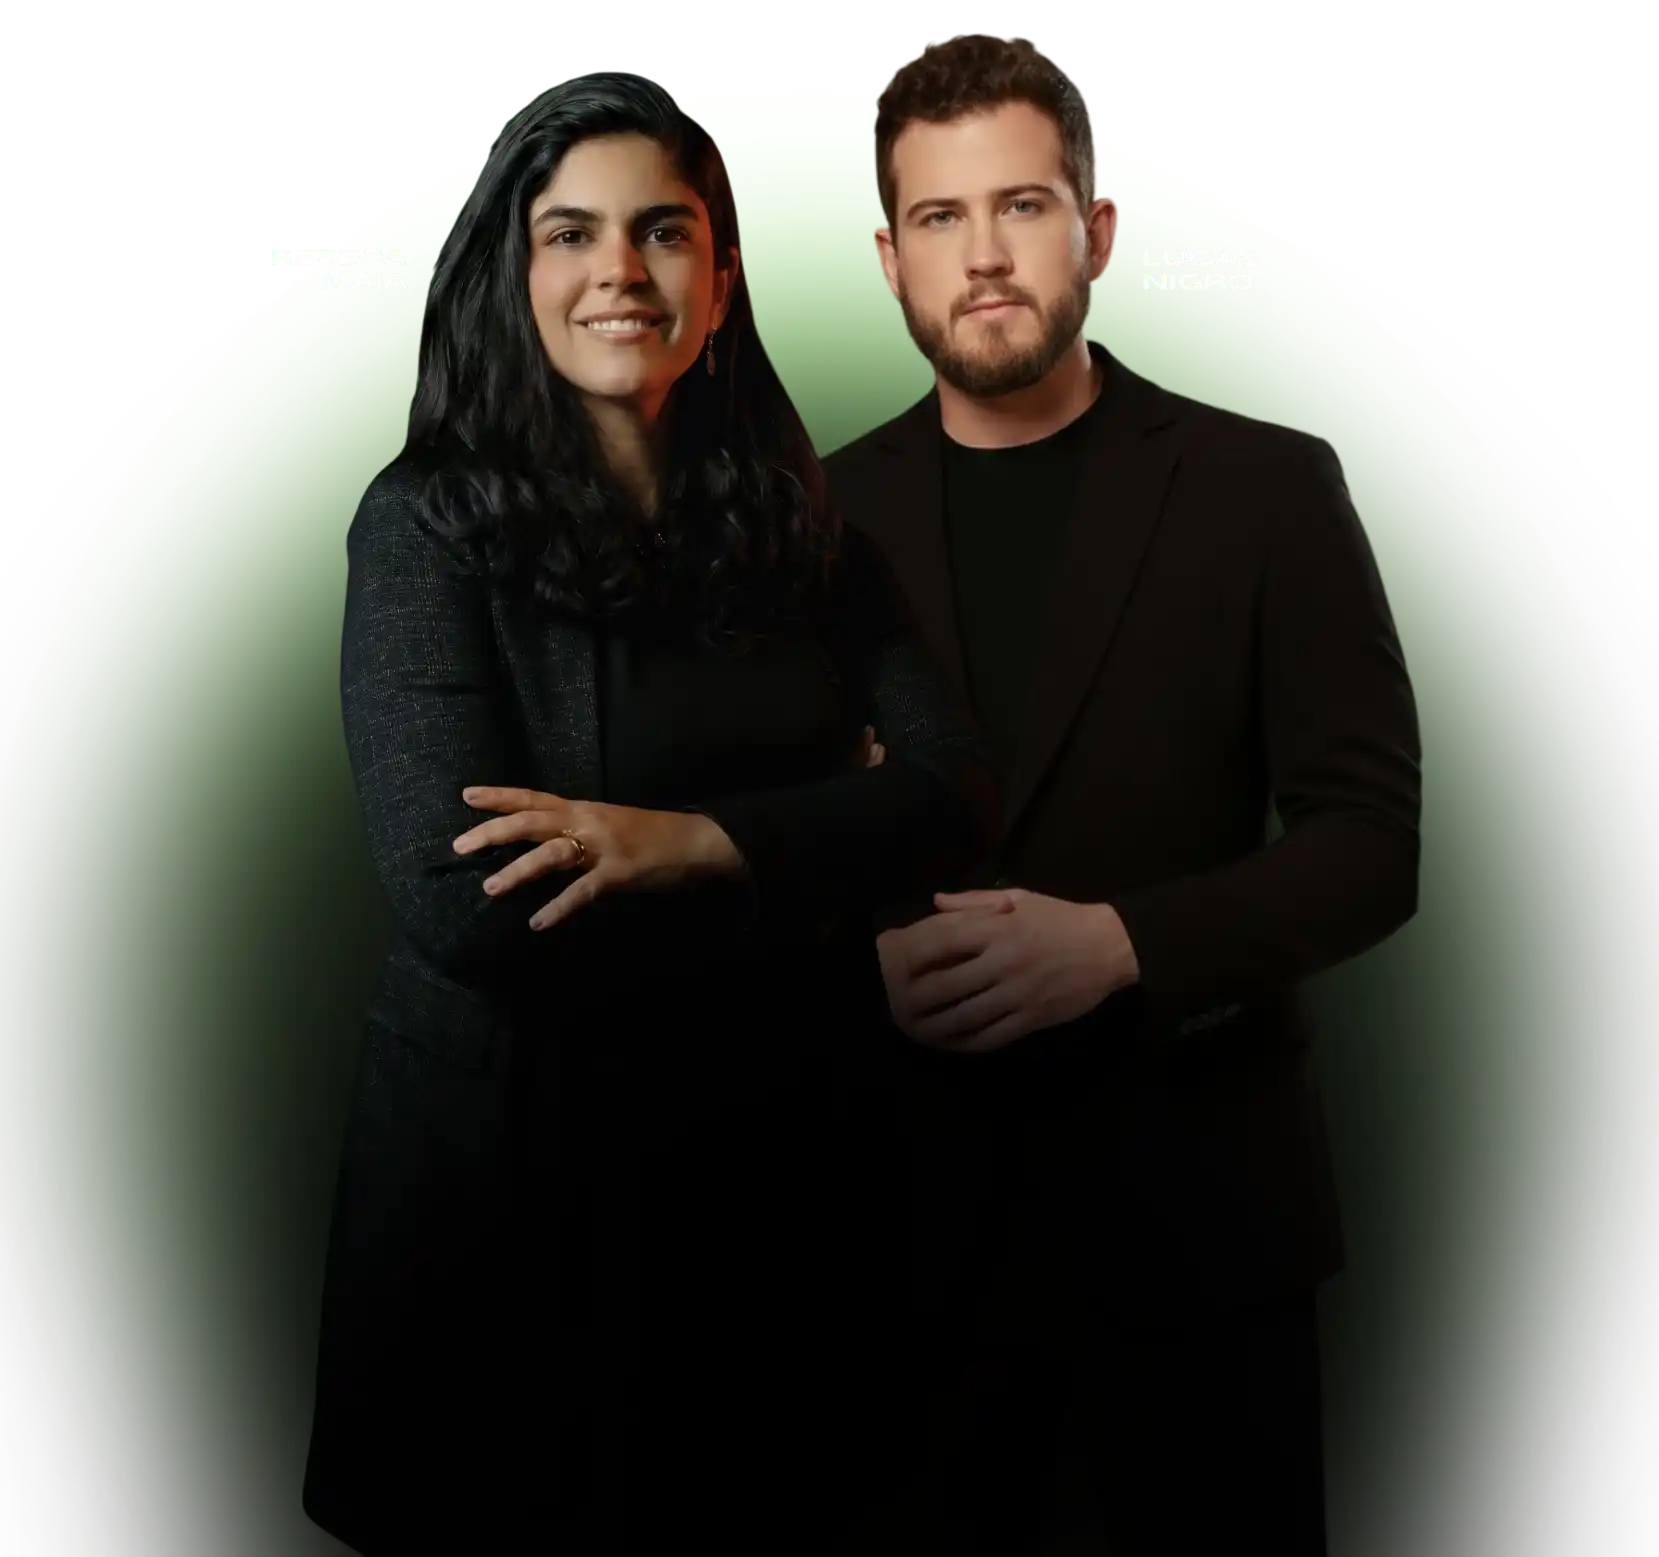
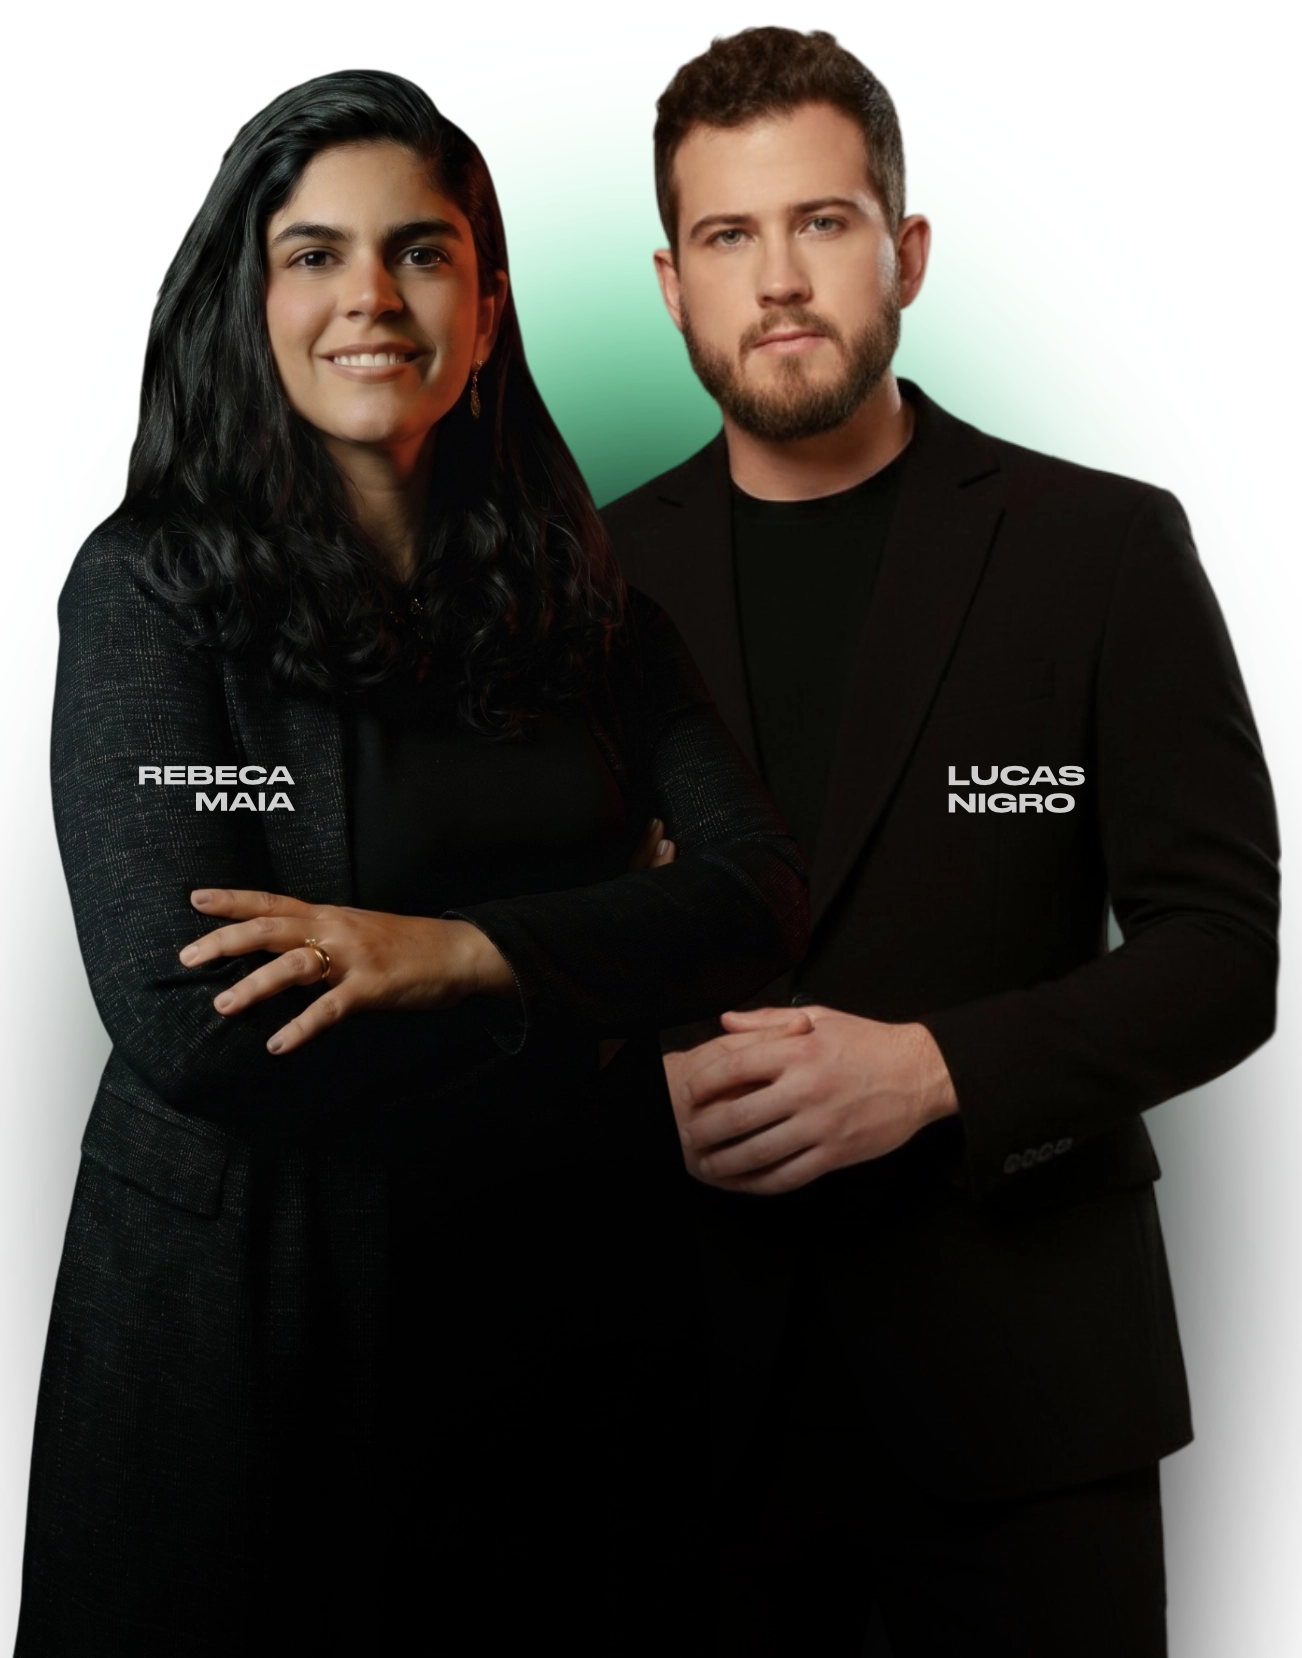
feat: LP responsiva, FAQ, foto no hero e otimizações de performance
- Substitui cards placeholder por foto real no hero, colada na base
- Cria seção FAQ com 6 perguntas usando estilos .faq-* existentes
- Remove tag </section> solta após blocos de metodologia
- Responsividade completa: 4 breakpoints (900/600/380px + touch)
- Performance: preconnect fonts.gstatic, font-display swap, fetchpriority na imagem, meta tags
- Adiciona CLAUDE.md com contexto do projeto

diff --git a/index.html b/index.html
@@ -4,8 +4,11 @@
 <meta charset="UTF-8">
 <meta name="viewport" content="width=device-width, initial-scale=1.0">
 <title>Café Arquitetura do Lucro — 13 de Maio · São Paulo</title>
+<meta name="description" content="Café Arquitetura do Lucro — encontro presencial em São Paulo para empresários que faturam acima de R$100k/mês. 13 de Maio de 2026.">
+<meta name="theme-color" content="#0D0D0D">
 <link rel="preconnect" href="https://fonts.googleapis.com">
-<link href="https://fonts.googleapis.com/css2?family=Montserrat:wght@300;400;500;600;700;800;900&display=swap" rel="stylesheet">
+<link rel="preconnect" href="https://fonts.gstatic.com" crossorigin>
+<link href="https://fonts.googleapis.com/css2?family=Montserrat:wght@400;500;600;700;800;900&display=swap" rel="stylesheet">
 <style>
 *, *::before, *::after { box-sizing: border-box; margin: 0; padding: 0; }
 
@@ -34,8 +37,11 @@ body {
   font-size: 16px;
   line-height: 1.7;
   -webkit-font-smoothing: antialiased;
+  -webkit-text-size-adjust: 100%;
+  -webkit-tap-highlight-color: transparent;
   overflow-x: hidden;
 }
+img { max-width: 100%; height: auto; }
 
 /* ─── TOPBAR ─── */
 .topbar {
@@ -55,15 +61,15 @@ body {
   min-height: 92vh;
   display: grid;
   grid-template-columns: 1fr 1fr;
-  align-items: center;
+  align-items: end;
   max-width: 1200px;
   margin: 0 auto;
-  padding: 80px 48px 60px;
+  padding: 80px 48px 0;
   gap: 60px;
   position: relative;
 }
 
-.hero-left { z-index: 2; }
+.hero-left { z-index: 2; padding-bottom: 60px; }
 
 .hero-eyebrow {
   display: inline-flex;
@@ -152,63 +158,29 @@ body {
 .hero-right {
   position: relative;
   display: flex;
-  align-items: center;
+  align-items: flex-end;
   justify-content: center;
-  height: 500px;
+  overflow: hidden;
 }
 .hero-glow {
   position: absolute;
-  bottom: 40px;
+  bottom: 0;
   left: 50%;
   transform: translateX(-50%);
-  width: 360px;
-  height: 360px;
+  width: 110%;
+  height: 80%;
   border-radius: 50%;
-  background: radial-gradient(circle, rgba(0,229,160,0.2) 0%, transparent 70%);
+  background: radial-gradient(circle, rgba(0,229,160,0.15) 0%, transparent 70%);
   pointer-events: none;
 }
-.hero-cards {
+.hero-photo {
   position: relative;
   z-index: 2;
-  display: flex;
-  gap: 20px;
-  align-items: flex-end;
-}
-.avatar-card {
-  background: var(--bg3);
-  border: 1px solid var(--border-neon);
-  border-radius: 12px;
-  padding: 28px 22px;
-  text-align: center;
-  width: 170px;
-}
-.avatar-card:first-child { margin-bottom: 48px; }
-.avatar-circle {
-  width: 76px; height: 76px;
-  border-radius: 50%;
-  background: var(--bg4);
-  border: 2px solid var(--neon);
-  margin: 0 auto 12px;
-  display: flex;
-  align-items: center;
-  justify-content: center;
-  font-size: 28px;
-  font-weight: 900;
-  color: var(--neon);
-  box-shadow: 0 0 24px var(--neon-glow);
-}
-.avatar-name {
-  font-size: 14px;
-  font-weight: 800;
-  color: var(--white);
-  margin-bottom: 3px;
-  text-transform: uppercase;
-}
-.avatar-role {
-  font-size: 11px;
-  font-weight: 600;
-  color: var(--neon);
-  letter-spacing: 0.06em;
+  width: 100%;
+  max-width: 540px;
+  height: auto;
+  border-radius: 16px 16px 0 0;
+  object-fit: cover;
 }
 
 /* ─── SECTIONS ─── */
@@ -757,26 +729,98 @@ footer a { color: #383838; text-decoration: none; }
   justify-content: space-between;
   gap: 16px;
 }
-.sticky-text { font-size: 12px; color: #666; font-weight: 600; }
+.sticky-text { font-size: 12px; color: #666; font-weight: 600; min-width: 0; }
 .sticky-text strong { color: var(--white); display: block; font-size: 14px; font-weight: 800; text-transform: uppercase; }
-.sticky-btn { background: var(--neon); color: var(--bg); font-size: 12px; font-weight: 900; padding: 10px 18px; border-radius: 6px; text-decoration: none; white-space: nowrap; flex-shrink: 0; letter-spacing: 0.08em; text-transform: uppercase; }
+.sticky-btn { background: var(--neon); color: var(--bg); font-size: 12px; font-weight: 900; padding: 12px 20px; border-radius: 6px; text-decoration: none; white-space: nowrap; flex-shrink: 0; letter-spacing: 0.08em; text-transform: uppercase; min-height: 44px; display: flex; align-items: center; }
 
-/* ─── RESPONSIVE ─── */
+/* ─── TOUCH DEVICES ─── */
+@media (hover: none) {
+  .block-card:hover,
+  .testi-card:hover,
+  .about-card:hover,
+  .delivers-list li:hover,
+  .faq-q:hover { transform: none; background: inherit; border-color: inherit; }
+  .block-card:hover::after { transform: scaleX(0); }
+  .cta-btn:hover, .cta-full:hover { transform: none; box-shadow: none; }
+  .cta-btn:active, .cta-full:active { transform: scale(0.97); }
+}
+
+/* ─── RESPONSIVE: TABLET ─── */
 @media (max-width: 900px) {
-  .hero { grid-template-columns: 1fr; padding: 60px 24px 40px; min-height: auto; gap: 40px; }
-  .hero-right { height: 240px; }
+  .hero { grid-template-columns: 1fr; padding: 48px 24px 0; min-height: auto; gap: 32px; }
+  .hero-left { padding-bottom: 0; text-align: center; }
+  .hero-sub { margin-left: auto; margin-right: auto; }
+  .hero-eyebrow { margin-bottom: 20px; }
+  .hero-pills { justify-content: center; }
+  .hero-right { justify-content: center; }
+  .hero-photo { max-width: 380px; }
+  .section-wrap { padding: 64px 20px; }
+  .section-wrap-wide { padding: 64px 20px; }
   .blocks-grid { grid-template-columns: repeat(2, 1fr); }
   .testi-grid { grid-template-columns: 1fr; }
   .about-grid { grid-template-columns: 1fr; }
   .forwho-grid { grid-template-columns: 1fr; }
+  .callout-neon { padding: 28px 24px; }
+  .final-section { padding: 64px 20px; }
+  .offer-section { padding: 64px 20px; }
 }
+
+/* ─── RESPONSIVE: MOBILE ─── */
 @media (max-width: 600px) {
-  .blocks-grid { grid-template-columns: 1fr; }
-  .hero h1 { font-size: 34px; }
-  .about-card { flex-direction: column; }
-  .offer-body { padding: 28px 22px; }
+  .topbar { font-size: 10px; padding: 8px 16px; letter-spacing: 0.1em; }
+  .hero { padding: 36px 18px 0; gap: 28px; }
+  .hero h1 { font-size: 30px; margin-bottom: 14px; }
+  .hero-eyebrow { font-size: 10px; padding: 5px 12px; margin-bottom: 16px; }
+  .hero-sub { font-size: 14px; margin-bottom: 24px; }
+  .hero-photo { max-width: 300px; }
+  .hero-pills { gap: 8px; }
+  .hero-pill { font-size: 12px; padding: 6px 10px; }
+  .cta-btn { font-size: 13px; padding: 15px 28px; width: 100%; text-align: center; }
+  .section-wrap { padding: 48px 16px; }
+  .section-wrap-wide { padding: 48px 16px; }
+  .section-title { font-size: 24px; }
+  .body-text { font-size: 14px; }
+  .pain-list li { padding: 14px 16px; font-size: 14px; gap: 10px; }
+  .pain-icon { width: 24px; height: 24px; font-size: 10px; }
+  .callout-neon { padding: 24px 18px; margin: 28px 0; }
+  .callout-neon p { font-size: 16px; }
+  .callout-attr { font-size: 12px; }
+  .event-name-big { font-size: clamp(32px, 10vw, 50px); }
+  .blocks-grid { grid-template-columns: 1fr; gap: 12px; }
+  .block-card { padding: 20px 18px; }
+  .about-card { flex-direction: column; padding: 24px 20px; gap: 14px; }
+  .about-avatar { width: 56px; height: 56px; font-size: 18px; }
+  .about-name { font-size: 16px; }
+  .about-desc { font-size: 12px; }
+  .testi-card { padding: 20px 18px; }
+  .testi-text { font-size: 13px; }
+  .forwho-col h3 { font-size: 10px; padding: 10px 14px; }
+  .forwho-list li { padding: 11px 14px; font-size: 12px; }
+  .faq-q { padding: 16px 18px; font-size: 13px; gap: 12px; }
+  .faq-a { padding: 0 18px 16px; font-size: 13px; }
+  .offer-section { padding: 48px 16px; }
+  .offer-card-top { padding: 12px 18px; }
+  .offer-card-top p { font-size: 9px; letter-spacing: 0.12em; }
+  .offer-body { padding: 28px 20px; }
+  .offer-title { font-size: 20px; margin-bottom: 24px; }
+  .offer-includes li { font-size: 13px; }
+  .price-main { font-size: 52px; }
+  .price-currency { font-size: 22px; }
+  .cta-full { font-size: 13px; padding: 18px 24px; }
+  .final-section { padding: 56px 18px; }
+  .final-section p { font-size: 14px; margin-bottom: 28px; }
+  .urgency-bar p { font-size: 11px; }
   .sticky-cta { display: flex; }
   body { padding-bottom: 68px; }
+}
+
+/* ─── RESPONSIVE: SMALL MOBILE ─── */
+@media (max-width: 380px) {
+  .hero h1 { font-size: 26px; }
+  .hero-photo { max-width: 240px; }
+  .section-title { font-size: 22px; }
+  .price-main { font-size: 44px; }
+  .offer-body { padding: 22px 16px; }
 }
 </style>
 </head>
@@ -807,18 +851,7 @@ footer a { color: #383838; text-decoration: none; }
     </div>
     <div class="hero-right">
       <div class="hero-glow"></div>
-      <div class="hero-cards">
-        <div class="avatar-card">
-          <div class="avatar-circle">L</div>
-          <p class="avatar-name">Lucas</p>
-          <p class="avatar-role">Aceleração</p>
-        </div>
-        <div class="avatar-card">
-          <div class="avatar-circle">R</div>
-          <p class="avatar-name">Rebeca</p>
-          <p class="avatar-role">Diagnóstico</p>
-        </div>
-      </div>
+      <img src="assets/fotobecaelucas.webp" alt="Lucas e Rebeca — Arquitetura do Lucro" class="hero-photo" fetchpriority="high" decoding="async" width="540" height="600">
     </div>
   </div>
 </section>
@@ -912,10 +945,6 @@ footer a { color: #383838; text-decoration: none; }
 
 <div class="divider-neon"></div>
 
-</section>
-
-<div class="divider-neon"></div>
-
 <!-- ════════════════ QUEM CONDUZ ════════════════ -->
 <section class="alt-bg">
   <div class="section-wrap-wide">
@@ -928,7 +957,7 @@ footer a { color: #383838; text-decoration: none; }
         <div class="about-avatar">L</div>
         <div>
           <p class="about-name">Lucas</p>
-          <p class="about-role">Fundador · Aceleração de Negócios</p>
+          <p class="about-role">Gestão Financeira</p>
           <p class="about-desc">Especialista em inteligência financeira de alta complexidade e engenharia de indicadores de performance. Conduziu o diagnóstico de dezenas de empresas entre R$100k e R$1M/mês, ajudando empresários a identificarem a margem de lucro real e a liderarem com segurança financeira e sustentabilidade do negócio.</p>
         </div>
       </div>
@@ -936,7 +965,7 @@ footer a { color: #383838; text-decoration: none; }
         <div class="about-avatar">R</div>
         <div>
           <p class="about-name">Rebeca</p>
-          <p class="about-role">Co-fundadora · Gestão Estratégica</p>
+          <p class="about-role">Gestão Estratégica</p>
           <p class="about-desc">Consultora e mentora com mais de uma década dedicada à aceleração de negócios através da gestão estratégica. Especialista em conduzir a transição de empresas dependentes de fundadores para organizações de alta performance. Rebeca desenha processos que eliminam gargalos e permitem ao empresário focar na expansão e visão de longo prazo.</p>
         </div>
       </div>
@@ -968,7 +997,7 @@ footer a { color: #383838; text-decoration: none; }
       </div>
       <div class="testi-card">
         <div class="testi-stars"><div class="star"></div><div class="star"></div><div class="star"></div><div class="star"></div><div class="star"></div></div>
-        <p class="testi-text">"Sempre soube que tinha gargalos, mas nunca consegui ver todos ao mesmo tempo. O diagnóstico 360 fez exatamente isso. Hoje sei para onde olhar primeiro."</p>
+        <p class="testi-text">"Sempre soube que tinha gargalos, mas nunca consegui ver todos ao mesmo tempo. A atuação da Rebeca e do Lucas mudou meu jogo. Hoje sei para onde olhar primeiro."</p>
         <p class="testi-name">Fernando L.</p>
         <p class="testi-biz">Clínica Médica · R$220k/mês</p>
       </div>
@@ -1011,6 +1040,62 @@ footer a { color: #383838; text-decoration: none; }
       </div>
     </div>
     <p style="text-align: center; font-size: 14px; color: var(--muted); font-weight: 600; margin-top: 28px;">Se você se identificou com o lado esquerdo, este café foi feito para você.</p>
+  </div>
+</section>
+
+<div class="divider-neon"></div>
+
+<!-- ════════════════ FAQ ════════════════ -->
+<section class="alt-bg2">
+  <div class="section-wrap">
+    <div style="text-align: center; margin-bottom: 40px;">
+      <span class="section-label">Perguntas Frequentes</span>
+      <h2 class="section-title">Ainda tem<br><span class="neon">dúvidas?</span></h2>
+    </div>
+    <div class="faq-list">
+      <div class="faq-item">
+        <div class="faq-q" onclick="toggleFaq(this)">
+          <span>Preciso ter uma empresa grande para participar?</span>
+          <span class="faq-arrow">+</span>
+        </div>
+        <div class="faq-a">Não. O café foi desenhado para empresários que já faturam acima de R$100k/mês e sentem que o lucro não acompanha o crescimento. Se essa é a sua realidade, independentemente do tamanho da equipe, o evento é para você.</div>
+      </div>
+      <div class="faq-item">
+        <div class="faq-q" onclick="toggleFaq(this)">
+          <span>O evento é presencial mesmo? Terá versão online?</span>
+          <span class="faq-arrow">+</span>
+        </div>
+        <div class="faq-a">Sim, é 100% presencial em São Paulo, no dia 13 de maio de 2026. Não haverá versão online. O formato intimista e o networking são parte essencial da experiência.</div>
+      </div>
+      <div class="faq-item">
+        <div class="faq-q" onclick="toggleFaq(this)">
+          <span>O que exatamente vou receber no dia?</span>
+          <span class="faq-arrow">+</span>
+        </div>
+        <div class="faq-a">Você receberá um Plano de Aceleração de 90 dias personalizado para o seu negócio, acesso direto a Lucas e Rebeca durante todo o evento, e networking com outros empresários que faturam +R$100k/mês.</div>
+      </div>
+      <div class="faq-item">
+        <div class="faq-q" onclick="toggleFaq(this)">
+          <span>Como funciona o Diagnóstico 360?</span>
+          <span class="faq-arrow">+</span>
+        </div>
+        <div class="faq-a">O Diagnóstico 360 avalia 6 blocos do seu negócio — Marketing & IA, Vendas, Financeiro, Gestão, Processos e Pessoas — e atribui um ranking de A até F para cada um, revelando onde está o vazamento de margem da sua empresa.</div>
+      </div>
+      <div class="faq-item">
+        <div class="faq-q" onclick="toggleFaq(this)">
+          <span>R$97 é o valor total? Tem algum custo adicional?</span>
+          <span class="faq-arrow">+</span>
+        </div>
+        <div class="faq-a">R$97 é o valor total do ingresso. Não há cobranças adicionais. O pagamento é único e a confirmação é imediata.</div>
+      </div>
+      <div class="faq-item">
+        <div class="faq-q" onclick="toggleFaq(this)">
+          <span>E se eu não puder comparecer no dia?</span>
+          <span class="faq-arrow">+</span>
+        </div>
+        <div class="faq-a">Como o evento é presencial e as vagas são limitadas, não oferecemos reembolso. Porém, você pode transferir seu ingresso para outro empresário que se encaixe no perfil do evento.</div>
+      </div>
+    </div>
   </div>
 </section>
 

diff --git a/CLAUDE.md b/CLAUDE.md
@@ -1,0 +1,32 @@
+# CLAUDE.md
+
+This file provides guidance to Claude Code (claude.ai/code) when working with code in this repository.
+
+## Project Overview
+
+Landing page for "Café Arquitetura do Lucro" — an in-person business event in São Paulo (May 13, 2026). The site is a single-page static site in Brazilian Portuguese targeting entrepreneurs who revenue 100k+/month.
+
+## Architecture
+
+- **Single-file site**: Everything lives in `index.html` — HTML structure, all CSS (in a `<style>` block), and minimal JS (FAQ accordion toggle at the bottom).
+- **No build tools or dependencies**: Plain HTML/CSS/JS. No bundler, no package manager, no framework. Open `index.html` directly in a browser to preview.
+- **Assets**: `assets/` contains images (e.g., `fotobecaelucas.webp`).
+- **Fonts**: Google Fonts (Montserrat) loaded via CDN.
+- **Ticket sales**: CTA buttons link to an external Sympla event page.
+
+## Design System
+
+CSS custom properties defined in `:root`:
+- Primary accent (neon green): `--neon: #00E5A0`
+- Dark background palette: `--bg` through `--bg4`
+- Typography: Montserrat, weights 300–900
+
+The page follows a dark theme with neon green accents throughout. Sections alternate between `--bg` and `--bg2` backgrounds separated by `.divider-neon` gradient lines.
+
+## Page Sections (top to bottom)
+
+Topbar → Hero → Pain points → Solution intro → 6-block methodology → Hosts (Lucas & Rebeca) → Testimonials → "Is this for you?" → Pricing/offer card → Final CTA → Sticky mobile CTA → Footer
+
+## Notes
+
+- The language is Brazilian Portuguese — all copy, labels, and CTA text must stay in pt-BR.
